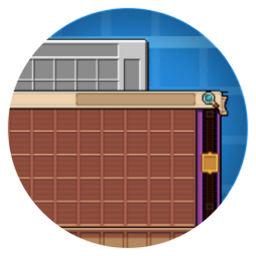
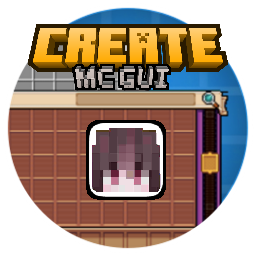
许可证附加/图标更改

Changed region(s): [[0.0938, 0.0938, 0.9062, 0.375], [0.3125, 0.4688, 0.6562, 0.7812]]

diff --git a/README.md b/README.md
@@ -42,10 +42,15 @@ Change the GUI of vanilla and some mods to the Create style.
 
 ### 📄 许可证
 
-本资源包采用 **All Rights Reserved (ARR)** 许可证。
+本资源包采用 **All Rights Reserved (ARR)** 许可证，并附有以下**附加许可**：
 
-- ❌ 未经授权，不得**复制、分发**本资源包
-- ✅ 欢迎**提交 Pull Request** 贡献改进（提交即视为同意以 ARR 授权）
+- ✅ **允许**录制视频、截图、直播展示（包括商业性质的内容创作）
+- ✅ **允许**整合包通过 **CurseForge 官方依赖拉取机制** 包含本资源包（但不得直接分发 `.zip` 文件）
+- ❌ **禁止**直接转发或重新分发本资源包文件（`.zip` 或文件夹）
+- ❌ **禁止**修改后向他人二次分发
+- ❌ **禁止**将本资源包用于商业售卖
+
+> 整合包作者：请勿将本资源包的 `.zip` 文件直接打包到整合包下载中，请引导玩家通过 CurseForge 下载，或使用 CurseForge 的自动依赖拉取功能。
 
 ### 🤝 贡献
 
@@ -97,10 +102,15 @@ If you encounter any issues, feel free to open an issue [here](https://github.co
 
 ### 📄 License
 
-This pack is licensed under **All Rights Reserved (ARR)**.
+This pack is licensed under **All Rights Reserved (ARR)**, with the following **additional permissions**:
 
-- ❌ Unauthorized copying or redistribution is prohibited
-- ✅ Pull Requests are welcome (submission implies agreement to ARR licensing)
+- ✅ **Allowed** to record videos, take screenshots, and stream content that includes this pack (including commercial content creation)
+- ✅ **Allowed** to include this pack in modpacks via **CurseForge's official dependency fetching system** (direct redistribution of the `.zip` file is **not** permitted)
+- ❌ **Prohibited** to redistribute the pack file (`.zip` or folder) through any direct download link
+- ❌ **Prohibited** to distribute modified versions of this pack to others
+- ❌ **Prohibited** to sell this pack or use it in commercial products
+
+> Modpack authors: Please do not bundle the `.zip` file directly into your modpack download. Instead, direct players to download from CurseForge, or use CurseForge's automatic dependency resolution.
 
 ### 🤝 Contributing
 
